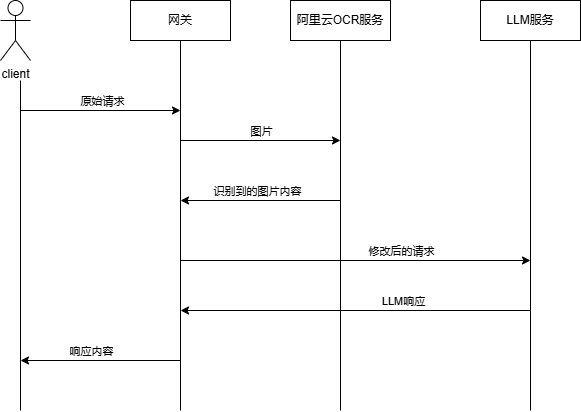
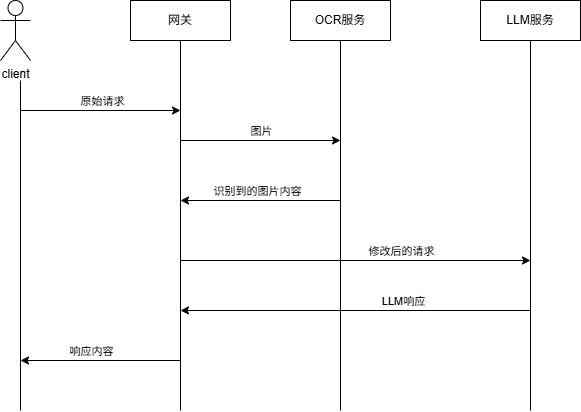
redesigned with an abstraction layer

diff --git a/plugins/wasm-go/extensions/ai-image-reader/main.go b/plugins/wasm-go/extensions/ai-image-reader/main.go
@@ -1,7 +1,8 @@
 package main
 
 import (
-	"encoding/json"
+	"ai-image-reader/ocr"
+	"ai-image-reader/ocr/qwen"
 	"fmt"
 	"github.com/alibaba/higress/plugins/wasm-go/pkg/wrapper"
 	"github.com/higress-group/proxy-wasm-go-sdk/proxywasm"
@@ -13,54 +14,12 @@ import (
 )
 
 const (
-	model                  string = "qwen-vl-ocr"
-	queryUrl               string = "https://dashscope.aliyuncs.com/compatible-mode/v1/chat/completions"
-	timeoutMillisecond     uint32 = 30000
-	minPixels              int    = 3136
-	maxPixels              int    = 1003520
 	DEFAULT_MAX_BODY_BYTES uint32 = 100 * 1024 * 1024
 )
 
 type Config struct {
-	apiKey         string
-	serviceName    string
-	servicePort    int64
 	promptTemplate string
-}
-
-type QwenOcrReq struct {
-	Model    string        `json:"model,omitempty"`
-	Messages []chatMessage `json:"messages,omitempty"`
-}
-
-type QwenOcrResp struct {
-	Choices []chatCompletionChoice `json:"choices"`
-}
-
-type chatCompletionChoice struct {
-	Message *chatMessageContent `json:"message,omitempty"`
-}
-
-type chatMessageContent struct {
-	Role    string `json:"role,omitempty"`
-	Content string `json:"content,omitempty"`
-}
-
-type chatMessage struct {
-	Role    string    `json:"role"`
-	Content []content `json:"content"`
-}
-
-type imageURL struct {
-	URL string `json:"url"`
-}
-
-type content struct {
-	Type      string   `json:"type"`
-	ImageUrl  imageURL `json:"image_url,omitempty"`
-	MinPixels int      `json:"min_pixels,omitempty"`
-	MaxPixels int      `json:"max_pixels,omitempty"`
-	Text      string   `json:"text,omitempty"`
+	ocrClient      ocr.OcrClient
 }
 
 func main() {
@@ -73,9 +32,6 @@ func main() {
 }
 
 func parseConfig(json gjson.Result, config *Config, log wrapper.Log) error {
-	config.apiKey = json.Get("apiKey").String()
-	config.serviceName = json.Get("serviceName").String()
-	config.servicePort = json.Get("servicePort").Int()
 	config.promptTemplate = `# 用户发送的图片解析得到的文字内容如下:
 {image_content}
 在回答时，请注意以下几点：
@@ -84,12 +40,22 @@ func parseConfig(json gjson.Result, config *Config, log wrapper.Log) error {
 
 # 用户消息为：
 {question}`
-	return nil
+	model := json.Get("model").String()
+	switch model {
+	case "qwen":
+		ocrClient, err := qwen.NewQwenOcr(&json)
+		if err != nil {
+			return fmt.Errorf("qwen ocr client init failed:%s", err)
+		}
+		config.ocrClient = ocrClient
+		return nil
+	default:
+		return fmt.Errorf("unkown ocr model:%s", model)
+	}
 }
 
 func onHttpRequestHeaders(ctx wrapper.HttpContext, config Config, log wrapper.Log) types.Action {
 	contentType, _ := proxywasm.GetHttpRequestHeader("content-type")
-	// The request does not have a body.
 	if contentType == "" {
 		return types.ActionContinue
 	}
@@ -116,7 +82,7 @@ func onHttpRequestBody(ctx wrapper.HttpContext, config Config, body []byte, log 
 				if content[j].Get("type").String() == "image_url" {
 					imageUrls = append(imageUrls, content[j].Get("image_url.url").String())
 				} else if content[j].Get("type").String() == "text" {
-					query = content[j].Get("text.text").String()
+					query = content[j].Get("text").String()
 				}
 			}
 			break
@@ -125,46 +91,16 @@ func onHttpRequestBody(ctx wrapper.HttpContext, config Config, body []byte, log 
 	if len(imageUrls) == 0 {
 		return types.ActionContinue
 	}
-	return executeReadImage(imageUrls, config, query, queryIndex, log)
+	return executeReadImage(imageUrls, config, query, queryIndex, body, log)
 }
 
-func executeReadImage(imageUrls []string, config Config, query string, queryIndex int, log wrapper.Log) types.Action {
+func executeReadImage(imageUrls []string, config Config, query string, queryIndex int, body []byte, log wrapper.Log) types.Action {
 	var imageContents []string
-	client := wrapper.NewClusterClient(wrapper.FQDNCluster{
-		FQDN: config.serviceName,
-		Port: config.servicePort,
-	})
 	var totalImages int
 	var finished int
 	for _, imageUrl := range imageUrls {
-		reqBody := QwenOcrReq{
-			Model: model,
-			Messages: []chatMessage{
-				{
-					Role: "user",
-					Content: []content{
-						{
-							Type: "image_url",
-							ImageUrl: imageURL{
-								URL: imageUrl,
-							},
-							MinPixels: minPixels,
-							MaxPixels: maxPixels,
-						},
-					},
-				},
-			},
-		}
-		body, err := json.Marshal(reqBody)
-		if err != nil {
-			log.Errorf("Failed to marshal request: %v", err)
-		}
-		var resp QwenOcrResp
-		err = client.Post(queryUrl,
-			[][2]string{
-				{"Content-Type", "application/json"},
-				{"Authorization", fmt.Sprintf("Bearer %s", config.apiKey)},
-			}, body,
+		args := config.ocrClient.CallArgs(imageUrl)
+		err := config.ocrClient.Client().Call(args.Method, args.Url, args.Headers, args.Body,
 			func(statusCode int, responseHeaders http.Header, responseBody []byte) {
 				defer func() {
 					finished++
@@ -190,13 +126,8 @@ func executeReadImage(imageUrls []string, config Config, query string, queryInde
 					log.Errorf("ocr call failed, status: %d", statusCode)
 					return
 				}
-				if err := json.Unmarshal(responseBody, &resp); err != nil {
-					log.Errorf("unable to unmarshal ocr response: %v", err)
-					proxywasm.ResumeHttpRequest()
-					return
-				}
-				imageContents = append(imageContents, resp.Choices[0].Message.Content)
-			}, timeoutMillisecond)
+				imageContents = append(imageContents, config.ocrClient.ParseResult(responseBody))
+			}, args.TimeoutMillisecond)
 		if err != nil {
 			log.Infof("ocr call failed, err:%v", err)
 			continue

diff --git a/plugins/wasm-go/extensions/ai-image-reader/ocr/qwen/qwen.go b/plugins/wasm-go/extensions/ai-image-reader/ocr/qwen/qwen.go
@@ -1,0 +1,126 @@
+package qwen
+
+import (
+	"ai-image-reader/ocr"
+	"encoding/json"
+	"errors"
+	"fmt"
+	"github.com/alibaba/higress/plugins/wasm-go/pkg/wrapper"
+	"github.com/tidwall/gjson"
+	"net/http"
+)
+
+const (
+	model     string = "qwen-vl-ocr"
+	queryUrl  string = "https://dashscope.aliyuncs.com/compatible-mode/v1/chat/completions"
+	minPixels int    = 3136
+	maxPixels int    = 1003520
+)
+
+type QwenOcrReq struct {
+	Model    string        `json:"model,omitempty"`
+	Messages []chatMessage `json:"messages,omitempty"`
+}
+
+type QwenOcrResp struct {
+	Choices []chatCompletionChoice `json:"choices"`
+}
+
+type chatCompletionChoice struct {
+	Message *chatMessageContent `json:"message,omitempty"`
+}
+
+type chatMessageContent struct {
+	Role    string `json:"role,omitempty"`
+	Content string `json:"content,omitempty"`
+}
+
+type chatMessage struct {
+	Role    string    `json:"role"`
+	Content []content `json:"content"`
+}
+
+type imageURL struct {
+	URL string `json:"url"`
+}
+
+type content struct {
+	Type      string   `json:"type"`
+	ImageUrl  imageURL `json:"image_url,omitempty"`
+	MinPixels int      `json:"min_pixels,omitempty"`
+	MaxPixels int      `json:"max_pixels,omitempty"`
+	Text      string   `json:"text,omitempty"`
+}
+
+type QwenOcr struct {
+	apiKey             string
+	timeoutMillisecond uint32
+	client             wrapper.HttpClient
+}
+
+func NewQwenOcr(config *gjson.Result) (*QwenOcr, error) {
+	ocr := &QwenOcr{}
+	ocr.apiKey = config.Get("apiKey").String()
+	if ocr.apiKey == "" {
+		return nil, errors.New("apiKey not found")
+	}
+	serviceName := config.Get("serviceName").String()
+	if serviceName == "" {
+		return nil, errors.New("serviceName not found")
+	}
+	servicePort := config.Get("servicePort").Int()
+	if servicePort == 0 {
+		return nil, errors.New("servicePort not found")
+	}
+	ocr.client = wrapper.NewClusterClient(wrapper.FQDNCluster{
+		FQDN: serviceName,
+		Port: servicePort,
+	})
+	ocr.timeoutMillisecond = uint32(config.Get("timeoutMillisecond").Uint())
+	if ocr.timeoutMillisecond == 0 {
+		ocr.timeoutMillisecond = 30000
+	}
+	return ocr, nil
+}
+
+func (q QwenOcr) Client() wrapper.HttpClient {
+	return q.client
+}
+
+func (q QwenOcr) CallArgs(imageUrl string) ocr.CallArgs {
+	reqBody := QwenOcrReq{
+		Model: model,
+		Messages: []chatMessage{
+			{
+				Role: "user",
+				Content: []content{
+					{
+						Type: "image_url",
+						ImageUrl: imageURL{
+							URL: imageUrl,
+						},
+						MinPixels: minPixels,
+						MaxPixels: maxPixels,
+					},
+				},
+			},
+		},
+	}
+	body, _ := json.Marshal(reqBody)
+	return ocr.CallArgs{
+		Method: http.MethodPost,
+		Url:    queryUrl,
+		Headers: [][2]string{
+			{"Content-Type", "application/json"},
+			{"Authorization", fmt.Sprintf("Bearer %s", q.apiKey)},
+		},
+		Body:               body,
+		TimeoutMillisecond: q.timeoutMillisecond,
+	}
+}
+
+func (q QwenOcr) ParseResult(response []byte) string {
+	var resp QwenOcrResp
+	_ = json.Unmarshal(response, &resp)
+	return resp.Choices[0].Message.Content
+}

diff --git a/plugins/wasm-go/extensions/ai-image-reader/ocr/types.go b/plugins/wasm-go/extensions/ai-image-reader/ocr/types.go
@@ -1,0 +1,17 @@
+package ocr
+
+import "github.com/alibaba/higress/plugins/wasm-go/pkg/wrapper"
+
+type CallArgs struct {
+	Method             string
+	Url                string
+	Headers            [][2]string
+	Body               []byte
+	TimeoutMillisecond uint32
+}
+
+type OcrClient interface {
+	Client() wrapper.HttpClient
+	CallArgs(imageUrl string) CallArgs
+	ParseResult(response []byte) string
+}

diff --git a/plugins/wasm-go/extensions/ai-image-reader/README.md b/plugins/wasm-go/extensions/ai-image-reader/README.md
@@ -7,7 +7,7 @@ description: AI IMAGE READER 插件配置参考
 
 ## 功能说明
 
-通过对接阿里云OCR服务实现AI-IMAGE-READER，流程如图所示：
+通过对接OCR服务实现AI-IMAGE-READER，目前支持Qwen模型提供OCR服务，流程如图所示：
 
 <img src=".\ai-image-reader.png"> 
 
@@ -19,11 +19,13 @@ description: AI IMAGE READER 插件配置参考
 
 ## 配置说明
 
-| 名称          | 数据类型 | 填写要求 | 默认值 | 描述                                     |
-| ------------- | -------- | -------- | ------ | ---------------------------------------- |
-| `apiKey`      | string   | 必填     | -      | 用于在访问通义千问服务时进行认证的令牌。 |
-| `serviceName` | string   | 必填     | -      | 通义千问服务名                           |
-| `servicePort` | int      | 必填     | -      | 通义千问服务端口                         |
+| 名称                 | 数据类型 | 填写要求 | 默认值 | 描述                                |
+| -------------------- | -------- | -------- | ------ | ----------------------------------- |
+| `apiKey`             | string   | 必填     | -      | 用于在访问OCR服务时进行认证的令牌。 |
+| `serviceName`        | string   | 必填     | -      | 后端OCR服务名                       |
+| `servicePort`        | int      | 必填     | -      | 后端OCR服务端口                     |
+| `model`              | string   | 必填     | -      | 后端OCR服务模型名称（例如qwen）     |
+| `timeoutMillisecond` | int      | 选填     | 30000  | API调用超时时间（毫秒）             |
 
 ## 示例
 
@@ -31,6 +33,8 @@ description: AI IMAGE READER 插件配置参考
 "apiKey": "YOUR_API_KEY",
 "serviceName": "dashscope.dns",
 "servicePort": "443"
+"model": "qwen",
+"timeoutMillisecond": 30000
 ```
 
 请求遵循openai api协议规范:
